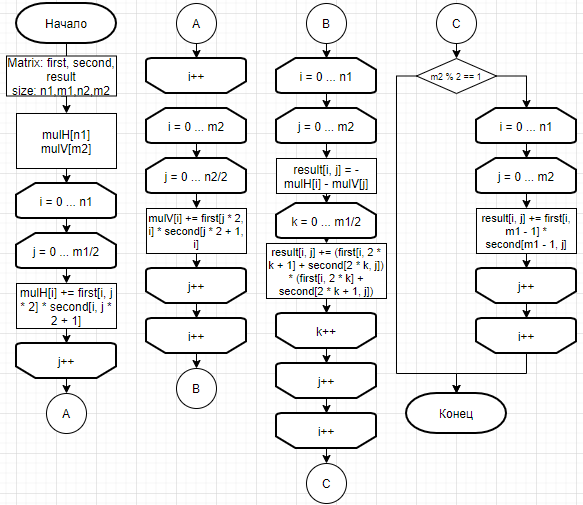
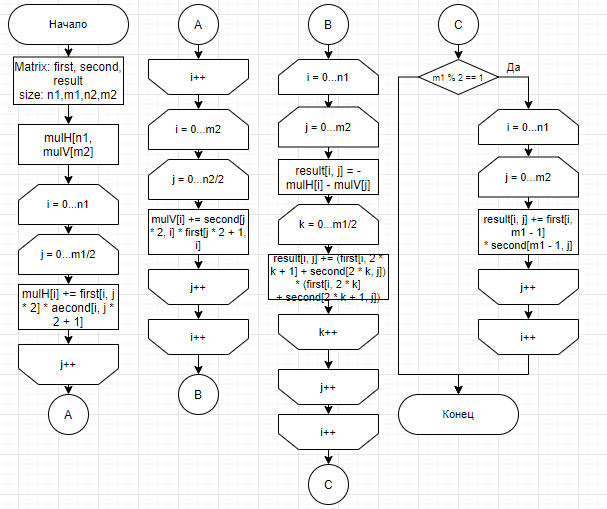
[lab_04] Fix report

diff --git a/lab_04/report/report.tex b/lab_04/report/report.tex
@@ -46,7 +46,7 @@
 	    \section*{Введение}
 	\end{center}
 	\addcontentsline{toc}{section}{Введение}
-		\indent В данной лабораторной работе будут рассмотренны и проанализированы параллельные реализации алгоритма Винограда. Проведено сравнение рассмотренных параллельных алгоритмов с последовательной версией алгоритма Винограда.
+		\indent \indent В данной лабораторной работе будут рассмотренны и проанализированы параллельные реализации алгоритма Винограда. Проведено сравнение рассмотренных параллельных алгоритмов с последовательной версией алгоритма Винограда.
 	\newpage
 	\section{Аналитическая часть}
 	В данном разделе будут поставлены цели и задачи работы, будут рассмотренны основные теоритические сведения связанные с алгоритмами сортировки.
@@ -70,16 +70,17 @@
 \indent				Произведением матрицы A[m×n] на матрицу B[n×k] называется матрица C[m×k] такая,
 			что элемент матрицы C, стоящий в i-ой строке и j-ом столбце, т. е. элемент $c_{i,j}$, равен сумме
 			произведений элементов i-ой строки матрицы A на соответствующие элементы j-ого столбца
-матрицы B. Т.е определяется формулой \hyperref[classicMultiply]{[\ref{classicMultiply}]}:
+матрицы B. Т.е определяется формулой \hyperref[classicMultiply]{(\ref{classicMultiply})}:
 			\begin{equation}\label{classicMultiply}
 			c_{i,j} = \sum_{r=1}^{m}a_{ir}b_{rj} \qquad (i=1,2,...l; j = 1,2,...n)
 			 \end{equation}
 		\subsection{Последовательный алгоритм Винограда}
-		Видно, что каждый элемент в результате умножения матриц представляет собой скалярное произведение соответствующих строки и столбца матриц. В алгоритме Винограда происходит некоторая предварительная обработка, позволяющая вычислить часть данных заранее. Заметим, что скалярное произведение двух векторов V и W, например, размерностью 4, можно переписать как \hyperref[vwOpen]{[\ref{vwOpen}]}:
+		Видно, что каждый элемент в результате умножения матриц представляет собой скалярное произведение соответствующих строки и столбца матриц. В алгоритме Винограда происходит некоторая предварительная обработка, позволяющая вычислить часть данных заранее. Заметим, что скалярное произведение двух векторов V и W, например, размерностью 4, можно переписать как \hyperref[vwOpen]{(\ref{vwOpen})}:
 		\begin{equation}\label{vwOpen}
 		V * W = (v_{1} + w_{2})(v_{2} + w_{1}) + (v_{3} + w_{4})(v_{4} + w_{3}) -  v_{1}v_{2} - v_{3}v_{4} - w_{1}w_{2} - w_{3}w_{4}
 	\end{equation}
-	\indent Видно, что выражение в правой части допускает предварительную обработку, его части можно вычислить заранее и запомнить для каждой строки первой матрицы и для каждого столбца второй.\cite{vinogradRef}
+	\indent В случае матрицы со стороной нечетной длины, необходимо прибавить сделать коррекцию: $result[i, j] += first[i, m1 - 1] * second[m1 - 1, j]$
+	\newline \indent Видно, что выражение в правой части допускает предварительную обработку, его части можно вычислить заранее и запомнить для каждой строки первой матрицы и для каждого столбца второй \cite{vinogradRef}.
 
 	\subsection{Параллельные реализации алгоритма Винограда}
 Алгоритм Винограда можно разделить на 4 части:
@@ -109,7 +110,7 @@
 	 	
 	 	\subsection{Схема алгоритма Винограда}
 	 	
-	На \hyperref[vinogradAlgo]{рисунке  [\ref{vinogradAlgo}]} изображена схема алгоритма Винограда.
+	На \hyperref[vinogradAlgo]{рисунке  \ref{vinogradAlgo}} изображена схема алгоритма Винограда.
 	\begin{figure}[h!]
 		\center{\includegraphics{vinogradAlgo.png}}
 		\caption{Схема алгоритма Винограда}
@@ -117,14 +118,14 @@
 	\end{figure}
 	\newpage
 		\subsection{Параллельные модификации}
-		В первой параллельной реализации будут распараллелены все части алгоритма, а так же части A и B(расчет массивов) будут выполняться параллельно. Расспаралеливание частей A, B, C, D будет заключаться в делегировании процессу обработки части массива или матрицы, распределения зон ответственности. На \hyperref[firstParallel]{рисунке  [\ref{firstParallel}]} изображена схема данной параллельной реализации.
+		В первой параллельной реализации будут распараллелены все части алгоритма, а так же части A и B(расчет массивов) будут выполняться параллельно. Расспаралеливание частей A, B, C, D будет заключаться в делегировании процессу обработки части массива или матрицы, распределения зон ответственности. На \hyperref[firstParallel]{рисунке  \ref{firstParallel}} изображена схема данной параллельной реализации.
 \begin{figure}[h!]
 		\center{\includegraphics[scale=0.7]{firstParallel.png}}
 		\caption{Первый вариант распараллеливания}
 		\label{firstParallel}
 	\end{figure}
 \newline
-		\indent Во второй параллельной реализации будет распараллелена только часть C(главный цикл). На \hyperref[secondParallel]{рисунке  [\ref{secondParallel}]} изображена схема второй параллельной реализации.
+		\indent Во второй параллельной реализации будет распараллелена только часть C(главный цикл). На \hyperref[secondParallel]{рисунке  \ref{secondParallel}} изображена схема второй параллельной реализации.
 \begin{figure}[h!]
 		\center{\includegraphics[scale=0.7]{secondParallel.png}}
 		\caption{Второй вариант распараллеливания}
@@ -137,7 +138,7 @@
 	\section{Технологическая часть}
 	Ниже будут представлены средства реализации и листинги реализованной программы.
 	\subsection{Средcтва реализации}
-	Выбранный язык программирования - C\#, так как требований по конкретнему языку не выдвигалось и он предоставляет удобные средства распараллеливания.\cite{c-parallel} Среда разработки - Visual Studio.\cite{vs}
+	Выбранный язык программирования - C\#, так как требований по конкретнему языку не выдвигалось и он предоставляет удобные средства распараллеливания \cite{c-parallel}. Среда разработки - Visual Studio \cite{vs}.
 \newline
 	\indent Технические характеристики машины, на которой проводились тесты:
 	\begin{itemize}
@@ -148,7 +149,7 @@
 	\end{itemize}	
 	\subsection{Реализации алгоритмов}
 	Ниже представлены листинги реализаций алгоритмов.
-	На листинге \hyperref[vinogradLst]{[\ref{vinogradLst}]} представлен алгоритм Винограда.
+	На листинге \hyperref[vinogradLst]{\ref{vinogradLst}} представлен алгоритм Винограда.
 	\begin{lstlisting}[label=vinogradLst, caption=Алгоритм Винограда]
 	public static Matrix Classic(Matrix first, Matrix second)
         {
@@ -192,7 +193,7 @@
                     }
                 }
 
-                if (m1 \% 2 == 1)
+                if (m1 % 2 == 1)
                 {
                     for (int i = 0; i < n1; i++)
                     {
@@ -207,7 +208,7 @@
             return result;
         }
 	\end{lstlisting}
-		На листинге \hyperref[firstParallelLst]{[\ref{firstParallelLst}]} представлен первый вариант распараллеливания алгоритм Винограда.
+		На листинге \hyperref[firstParallelLst]{\ref{firstParallelLst}} представлен первый вариант распараллеливания алгоритм Винограда.
 	\begin{lstlisting}[label=firstParallelLst,caption=Первый вариант распараллеливания алгоритм Винограда]
 public static Matrix ParallelFirst(Matrix first, Matrix second, int threadsCount)
         {
@@ -299,7 +300,7 @@ public static Matrix ParallelFirst(Matrix first, Matrix second, int threadsCount
                 }
 
                 // end
-                if (m1 \% 2 == 1)
+                if (m1 % 2 == 1)
                 {
                     start = 0;
                     for (int i = 0; i < threadWork - 1; i++)
@@ -322,7 +323,7 @@ public static Matrix ParallelFirst(Matrix first, Matrix second, int threadsCount
             return result;
         }
 	\end{lstlisting}
-		На листинге \hyperref[secondParallelLst]{[\ref{secondParallelLst}]} представлен второй вариант распараллеливания алгоритм Винограда.
+		На листинге \hyperref[secondParallelLst]{\ref{secondParallelLst}} представлен второй вариант распараллеливания алгоритм Винограда.
 	\begin{lstlisting}[label=secondParallelLst,caption=Второй вариант распараллеливания алгоритм Винограда]
 public static Matrix ParallelSecond(Matrix first, Matrix second, int threadsCount)
         {
@@ -384,7 +385,7 @@ public static Matrix ParallelSecond(Matrix first, Matrix second, int threadsCoun
                 }
 
                 // end
-                if (m1 \% 2 == 1)
+                if (m1 % 2 == 1)
                 {
                     for (int i = 0; i < n1; i++)
                     {
@@ -399,7 +400,7 @@ public static Matrix ParallelSecond(Matrix first, Matrix second, int threadsCoun
             return result;
         }
 \end{lstlisting}
-На листинге \hyperref[helpLst]{[\ref{helpLst}]} представлены вспомогательные функции.
+На листинге \hyperref[helpLst]{\ref{helpLst}} представлены вспомогательные функции.
 	\begin{lstlisting}[label=helpLst,caption=Вспомогательные функции]
 private static void CountMulH(object paramsObj)
         {
@@ -491,7 +492,7 @@ private static void CountMulH(object paramsObj)
 	\section{Экспериментальная часть}
 	В данной главе будет представлен пример работы программы, результат экспериментов по замеру времени и произведен сравнительный анализ алгоритмов по затрачиваемому времени.
 	\subsection{Пример работы программы}
-	Пример работы программы представлен на рисунке \hyperref[programmWork]{[\ref{programmWork}]}
+	Пример работы программы представлен на рисунке \hyperref[programmWork]{\ref{programmWork}}
 	 	\begin{figure}[h!]
 		 	\center{\includegraphics[scale=0.9]{programmWork.png}}
 		 	\caption{Пример работы программы}
@@ -499,14 +500,14 @@ private static void CountMulH(object paramsObj)
 	 	\end{figure}
 	
 	\subsection{Сравнительный анализ алгоритмов по времени}
-	Эксперимент проводится на матрице размером 500x500. Количество потоков варьируется от 1 до 24 с шагом 2. Количество потоков не влияет на последовательную реализацию алгоритма, поэтому её график не отражает зависимость между скоростью выполнения и количеством потоков, а приведен для сравнения.  Результаты представлены на рисунке \hyperref[test_mylt]{[\ref{test_mylt}]}
+	Эксперимент проводится на матрице размером 500x500. Количество потоков варьируется от 1 до 24 с шагом 2. Количество потоков не влияет на последовательную реализацию алгоритма, поэтому её график не отражает зависимость между скоростью выполнения и количеством потоков, а приведен для сравнения.  Результаты представлены на рисунке \hyperref[test_mylt]{\ref{test_mylt}}.
 	\begin{figure}[h!]
 		 	\center{\includegraphics{test_mylt.png}}
 		 	\caption{Результаты на разном количестве потоков}
 		 	\label{test_mylt}
 	 	\end{figure}
 	\newpage
-	На рисунке \hyperref[test_fix]{[\ref{test_fix}]} представлено сравнение алгоритмов на 6 потоках(кроме последовательной реализации) на матрицах со сторонами от 10 до 1000 с шагом 99.
+	На рисунке \hyperref[test_fix]{\ref{test_fix}} представлено сравнение алгоритмов на 6 потоках(кроме последовательной реализации) на матрицах со сторонами от 10 до 1000 с шагом 99.
 	\begin{figure}[h!]
 		 	\center{\includegraphics{test_fix.png}}
 		 	\caption{Результаты на разных размерах матриц}
@@ -525,7 +526,7 @@ private static void CountMulH(object paramsObj)
 		\section*{Заключение}
 	\end{center}
 	\addcontentsline{toc}{section}{Заключение}
-	\indent \indent В данной лабораторной работе были разработаны параллельные алгоритмы Винограда. Они были реализованы, а также были проведены эксперименты по замеру времени работы реализованных алгоритмов и проведены сравнения алгоритмов по результатам эксперимента.
+	\indent \indent В данной лабораторной работе были разработаны параллельные алгоритмы Винограда. Они были реализованы, а также были проведены эксперименты по замеру времени работы реализованных алгоритмов и проведены сравнения алгоритмов по результатам эксперимента. Цель работы достигнута, все задачи выполнены.
 	\newpage
 	\addcontentsline{toc}{section}{Список литературы}
 	
@@ -533,10 +534,10 @@ private static void CountMulH(object paramsObj)
 	\begin{thebibliography}{3}
 	\bibitem{vinogradRef}
 	Умножение матриц [Электронный ресурс]. Режим доступа: (дата обращения - 02.10.2020) Свободный. URL: http://www.algolib.narod.ru/Math/Matrix.html
-	\bibitem{vs}
-	Visual Studio [Электронный ресурс]. Режим доступа: (дата обращения - 28.10.2020) Свободный. URL: https://visualstudio.microsoft.com/ru/
 	\bibitem{c-parallel}
 	API.NET. Пространство имен System.Threading [Электронный ресурс]. Режим доступа: (дата обращения - 28.10.2020) Свободный. URL: https://docs.microsoft.com/ru-ru/dotnet/api/system.threading?view=netcore-3.1
+	\bibitem{vs}
+	Visual Studio [Электронный ресурс]. Режим доступа: (дата обращения - 28.10.2020) Свободный. URL: https://visualstudio.microsoft.com/ru/
 
 	\end{thebibliography}
 	\end{center}
